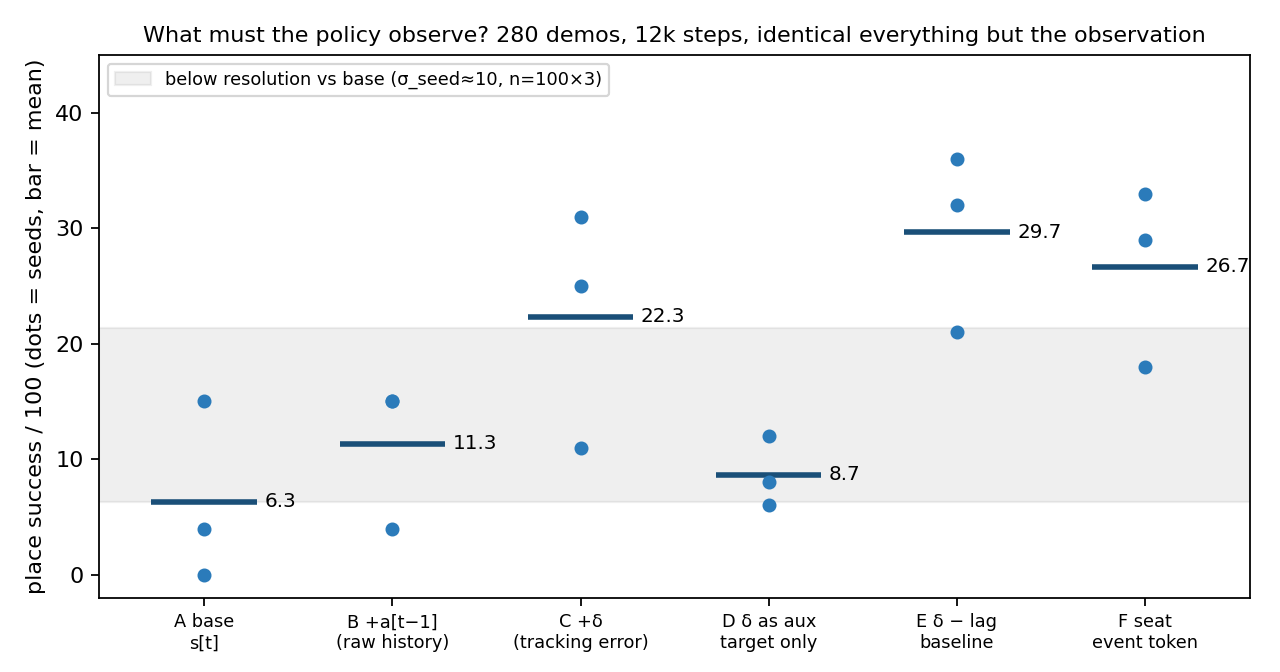
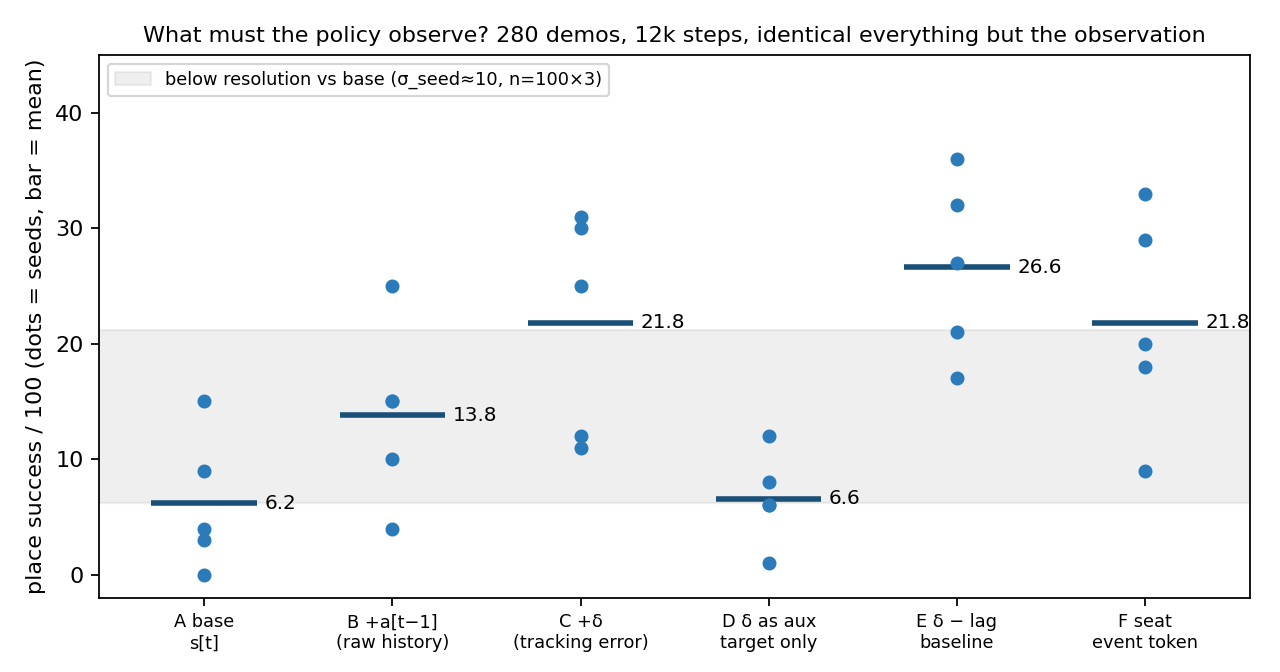
Grid at 5 seeds: E-B +12.8 (t=2.6) holds, D dead-equal to base, C-B and F-B do not resolve

diff --git a/docs/findings.md b/docs/findings.md
@@ -938,3 +938,25 @@ heavily -- the seat token drives commitment while retention lags.
 
 Cost note: dry + main = 9 H100 cells ~= $27 actual vs $23 estimated.
 Guarded column running locally (Cg s0 = 14 vs C s0 = 11).
+
+## Grid at 5 seeds (2026-08-18, seeds45 phase, ~$36): the verdicts firm up
+
+A {0,15,4,3,9} 6.2 | B {4,15,15,10,25} 13.8 | C {11,25,31,12,30} 21.8 |
+D {8,12,6,1,6} 6.6 | E {36,32,21,17,27} 26.6 | F {29,33,18,9,20} 21.8.
+Welch t at n=5 seeds x 100 episodes:
+
+RESOLVED: E-A +20.4 (t=4.7), C-A +15.6 (t=3.1), F-A +15.6 (t=3.1),
+**E-B +12.8 (t=2.6, p~0.03)** -- the design headline survives the seed
+expansion. D-A +0.4 (t=0.1): the aux-target arm is DEAD EQUAL to base at
+five seeds; predicting the channel instead of observing it contributes
+nothing. NOT RESOLVED: C-B +8.0 (t=1.4) -- raw delta does not separably
+beat raw history at this budget; F-B +8.0 (t=1.5) -- F's 3-seed marginal
+call collapsed exactly as its at-the-floor flag anticipated; E-C +4.8
+(t=0.9) -- whether E's edge is the subtraction or delta at all is not
+attributable here.
+
+The paper's three resolved sentences: (1) channel-bearing observation
+beats channel-free; (2) only the confound-subtracted form resolvably beats
+raw action history; (3) the channel must be observed, not predicted.
+Pre-registration discipline paid twice in one table: F's marginal claim
+was flagged marginal and fell; E's was flagged resolved and held.
